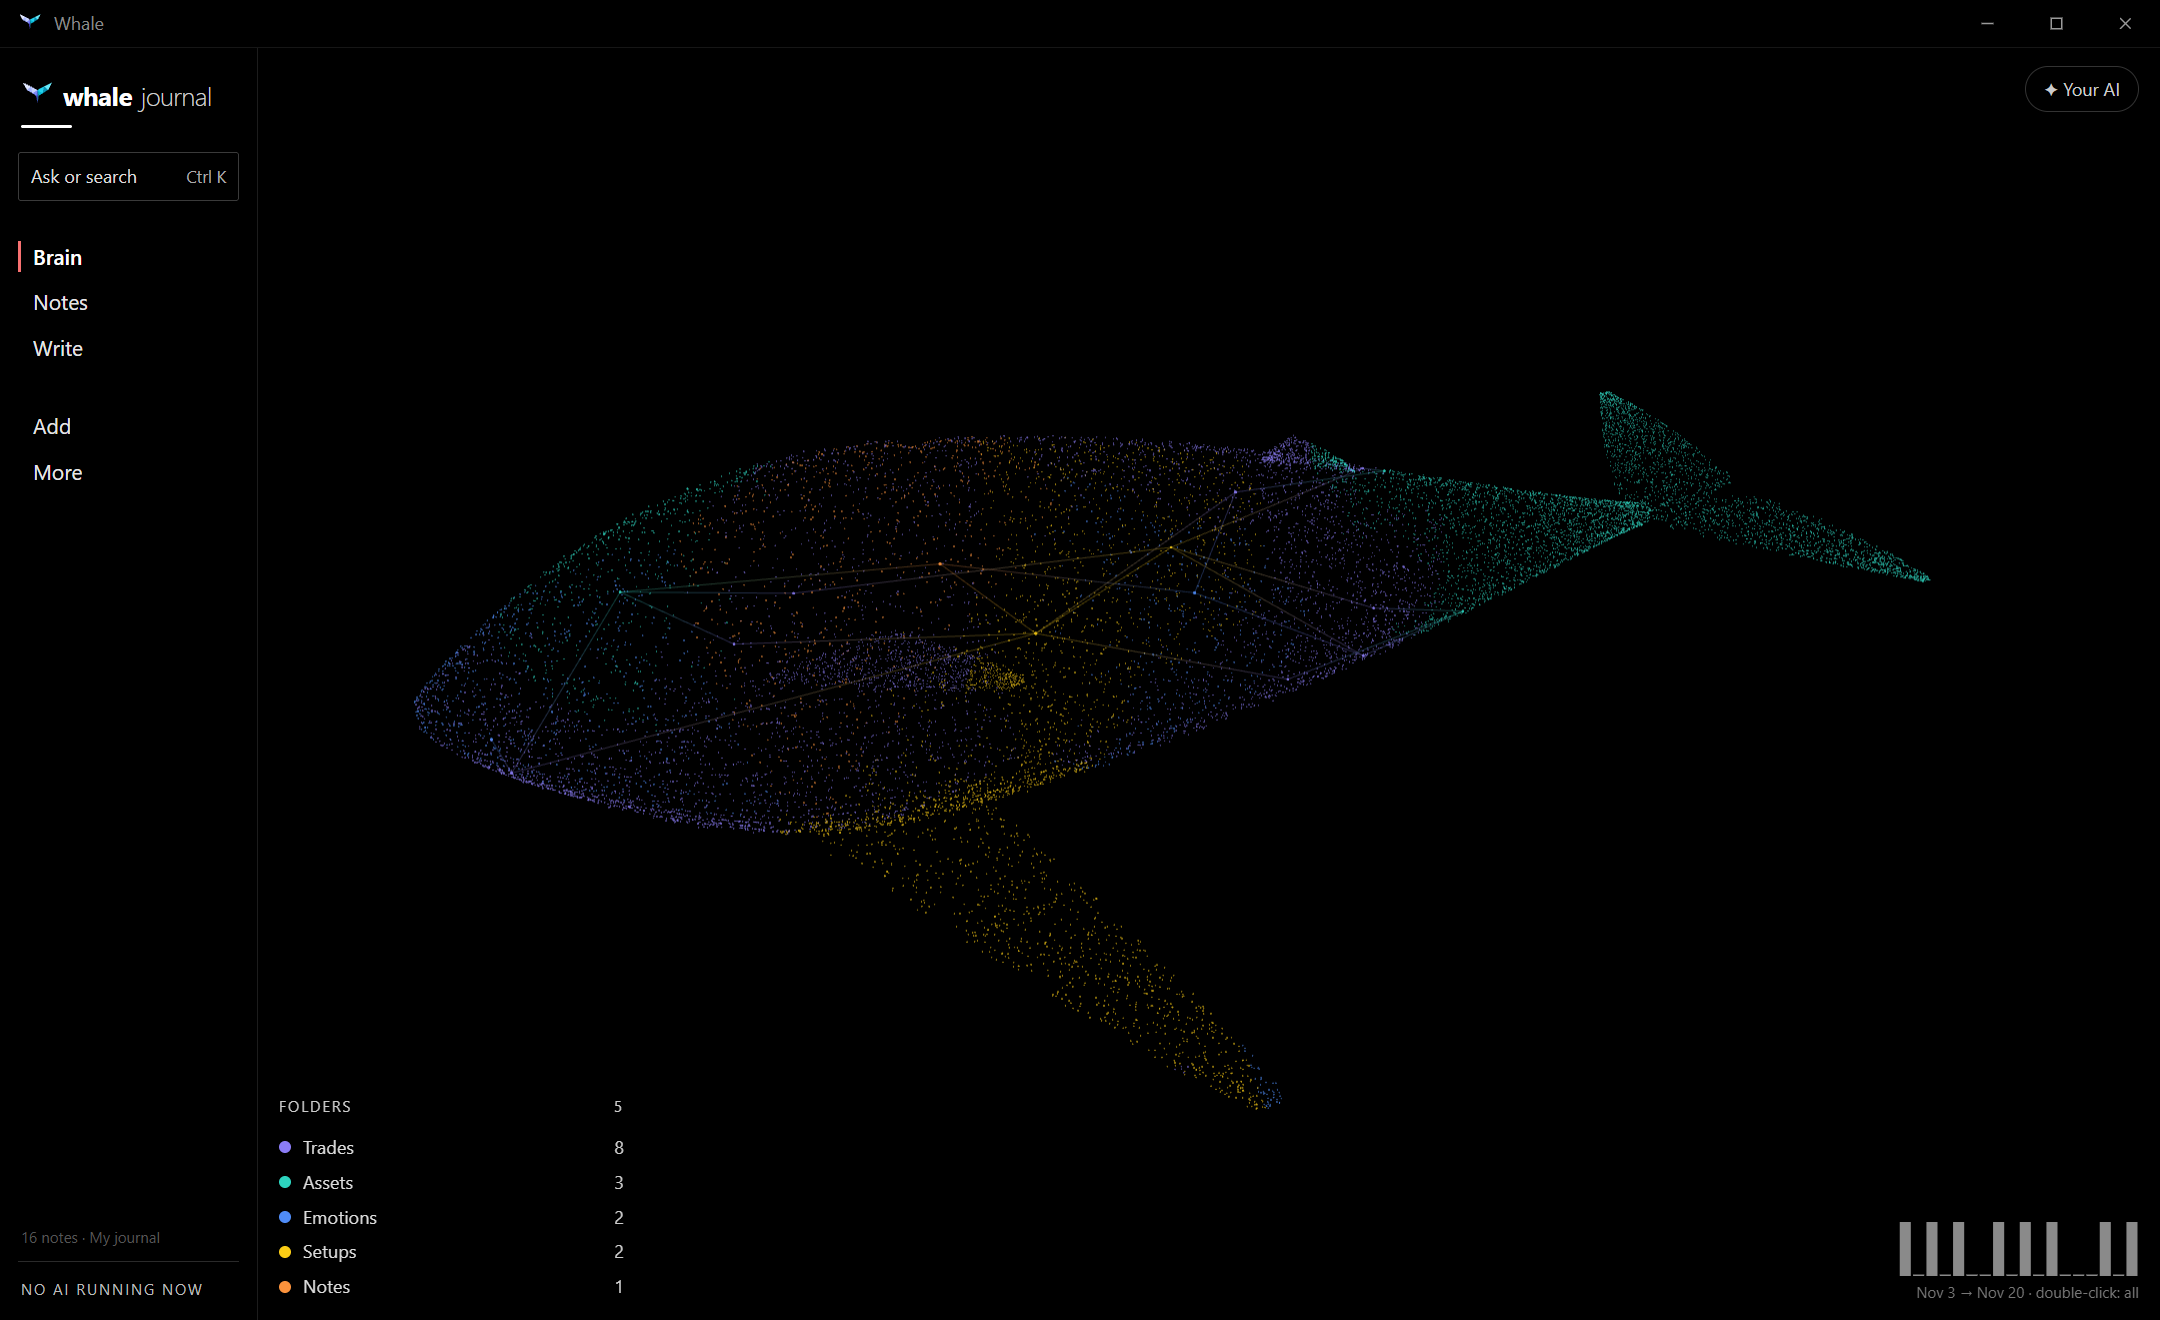
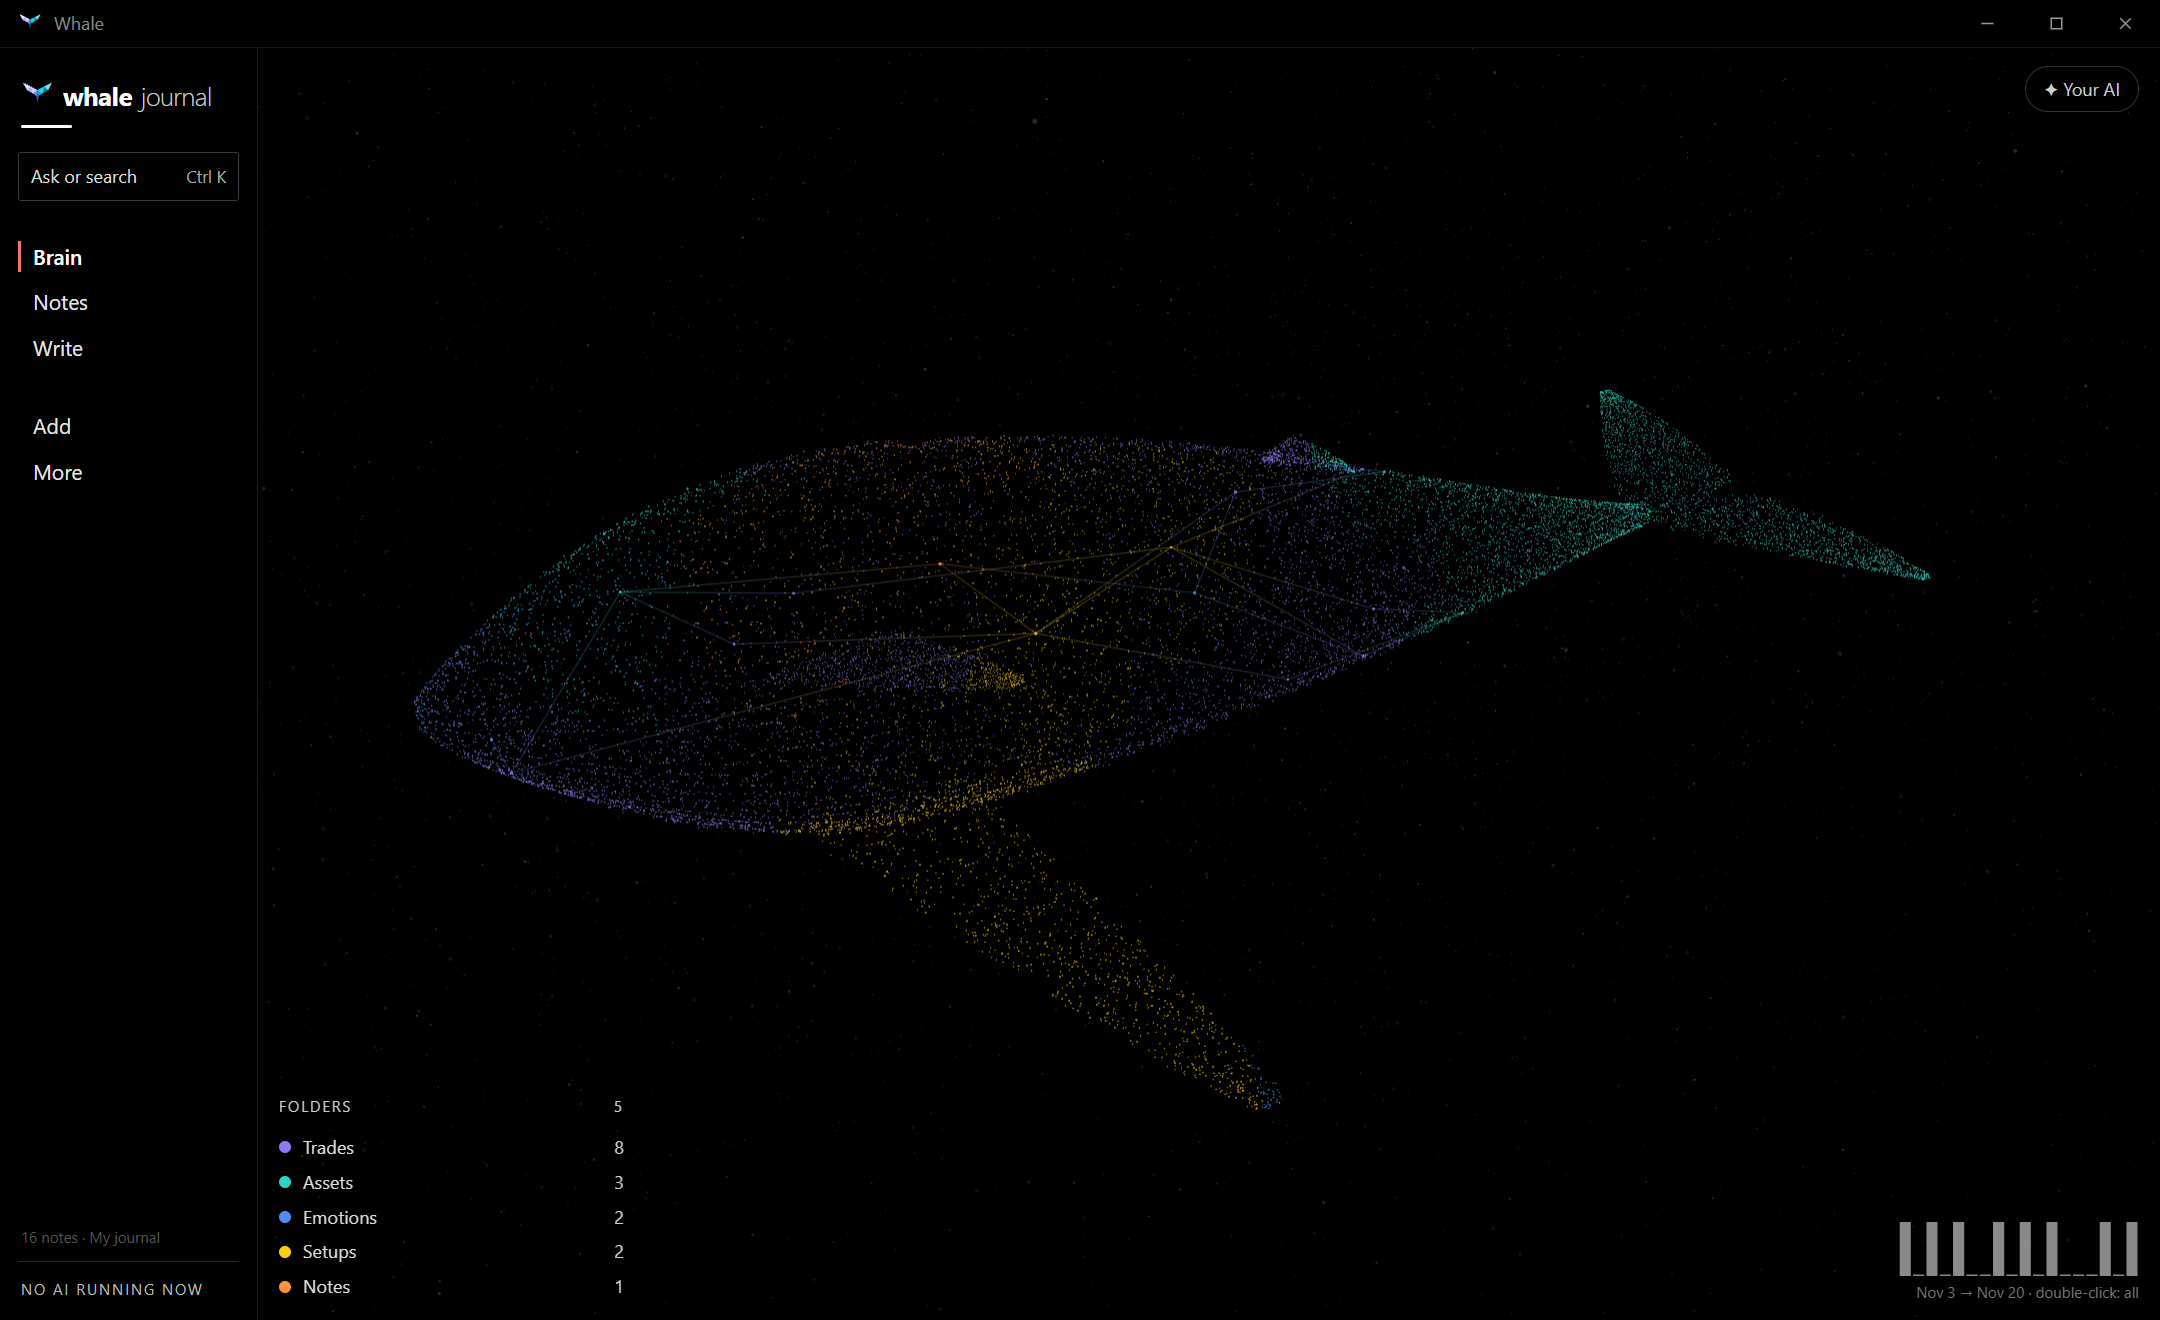
Brain: drifting dust around the whale and a softer light sweep
- 8,000 faint particles float slowly around the whale (a soft cloud
  near the body and a sparse wider field); they are dimmer than the
  whale, never inside the body, and purely decorative
- the light sweep is about half as bright on points and threads
- README screenshots regenerated

Changed region(s): [[0.5894, 0.2795, 0.8375, 0.497], [0.8375, 0.4038, 0.8995, 0.4348]]

diff --git a/src/graph.js b/src/graph.js
@@ -77,6 +77,51 @@ window.Graph = (() => {
     return geo;
   }
 
+  /* ---------- Dust around the whale ----------
+     Faint particles drifting slowly around the body, like plankton. Purely decorative:
+     no notes, not clickable, not affected by highlights or the light sweep. */
+  function makeDust(count) {
+    let seed = 99; const rnd = () => { seed = (seed * 16807) % 2147483647; return seed / 2147483647; };
+    const gauss = () => { let u = 0; while (!u) u = rnd(); return Math.sqrt(-2 * Math.log(u)) * Math.cos(2 * Math.PI * rnd()); };
+    const insideBody = (x, y, z) => {
+      if (x < X0 || x > X1) return false;
+      const t = tOf(x), r = radius(t) * 1.15, dy = (y - spineY(t)) / (r * 0.95), dz = z / r;
+      return dy * dy + dz * dz < 1;
+    };
+    const pos = new Float32Array(count * 3), size = new Float32Array(count), alpha = new Float32Array(count), phase = new Float32Array(count);
+    for (let i = 0; i < count; i++) {
+      let x, y, z;
+      do {
+        if (rnd() < 0.65) { x = 0.2 + gauss() * 1.7; y = gauss() * 0.8; z = gauss() * 0.95; } // a soft cloud hugging the whale
+        else { x = (rnd() * 2 - 1) * 4.2; y = (rnd() * 2 - 1) * 2.4; z = (rnd() * 2 - 1) * 2.6; } // a wider, sparse field
+      } while (insideBody(x, y, z));
+      pos[i * 3] = x; pos[i * 3 + 1] = y; pos[i * 3 + 2] = z;
+      size[i] = 0.9 + rnd() * 1.0;
+      alpha[i] = 0.1 + Math.pow(rnd(), 2) * 0.2;
+      phase[i] = rnd() * Math.PI * 2;
+    }
+    const geo = new THREE.BufferGeometry();
+    geo.setAttribute('position', new THREE.BufferAttribute(pos, 3));
+    geo.setAttribute('asize', new THREE.BufferAttribute(size, 1));
+    geo.setAttribute('aalpha', new THREE.BufferAttribute(alpha, 1));
+    geo.setAttribute('aphase', new THREE.BufferAttribute(phase, 1));
+    const u = pts.material.uniforms; // share time, pixel ratio and camera distance with the whale
+    return new THREE.Points(geo, new THREE.ShaderMaterial({
+      uniforms: { uTime: u.uTime, uPR: u.uPR, uDist: u.uDist },
+      vertexShader: `attribute float asize; attribute float aalpha; attribute float aphase;
+        uniform float uTime; uniform float uPR; uniform float uDist; varying float vA;
+        void main(){
+          vec3 p = position + 0.05 * vec3(sin(uTime * 0.13 + aphase), sin(uTime * 0.11 + aphase * 1.7), cos(uTime * 0.09 + aphase * 0.6));
+          vA = aalpha * (0.7 + 0.3 * sin(uTime * 0.5 + aphase * 3.0));
+          vec4 mv = modelViewMatrix * vec4(p, 1.0);
+          gl_PointSize = asize * uPR * (uDist / -mv.z); gl_Position = projectionMatrix * mv; }`,
+      fragmentShader: `varying float vA;
+        void main(){ float d = length(gl_PointCoord - 0.5); if (d > 0.5) discard;
+          gl_FragColor = vec4(0.72, 0.78, 0.92, vA * smoothstep(0.5, 0.2, d)); }`,
+      transparent: true, depthWrite: false,
+    }));
+  }
+
   /* ---------- WebGL setup ---------- */
   function init() {
     R = new THREE.WebGLRenderer({ canvas: cv, antialias: true });
@@ -95,21 +140,22 @@ window.Graph = (() => {
       vertexShader: `attribute vec3 acolor; attribute float asize; attribute float aalpha;
         uniform float uPR; uniform float uDist; varying vec3 vC; varying float vA; ${SWIM}
         void main(){ float g = sweep(position);
-          vC = mix(acolor, vec3(1.0), g * 0.65); vA = min(1.0, aalpha + g * 0.55);
+          vC = mix(acolor, vec3(1.0), g * 0.3); vA = min(1.0, aalpha + g * 0.22);
           vec4 mv=modelViewMatrix*vec4(swim(position),1.0);
-          gl_PointSize=asize*(1.0 + g * 0.9)*uPR*(uDist/-mv.z); gl_Position=projectionMatrix*mv; }`,
+          gl_PointSize=asize*(1.0 + g * 0.4)*uPR*(uDist/-mv.z); gl_Position=projectionMatrix*mv; }`,
       fragmentShader: `varying vec3 vC; varying float vA;
         void main(){ float d=length(gl_PointCoord-0.5); if(d>0.5) discard;
           gl_FragColor=vec4(vC, vA*smoothstep(0.5,0.3,d)); }`,
       transparent: true, depthWrite: false,
     });
     pts = new THREE.Points(makeGeometry(), mat); G.add(pts);
+    G.add(makeDust(8000));
     const lineMat = (opacity, color) => new THREE.ShaderMaterial({
       uniforms: { uTime: mat.uniforms.uTime, uOpacity: { value: opacity }, uColor: { value: new THREE.Color(color || '#ffffff') }, uUseColor: { value: color ? 1 : 0 } },
       vertexShader: `attribute vec3 color; varying vec3 vC; varying float vG; ${SWIM}
         void main(){ vC=color; vG=sweep(position); gl_Position=projectionMatrix*modelViewMatrix*vec4(swim(position),1.0); }`,
       fragmentShader: `uniform float uOpacity; uniform vec3 uColor; uniform float uUseColor; varying vec3 vC; varying float vG;
-        void main(){ vec3 c = uUseColor > 0.5 ? uColor : vC; gl_FragColor=vec4(mix(c, vec3(1.0), vG * 0.6), min(1.0, uOpacity + vG * 0.5)); }`,
+        void main(){ vec3 c = uUseColor > 0.5 ? uColor : vC; gl_FragColor=vec4(mix(c, vec3(1.0), vG * 0.3), min(1.0, uOpacity + vG * 0.2)); }`,
       transparent: true, depthWrite: false,
     });
     // Every link between notes, always visible as thin threads (colored by the notes' folders)
